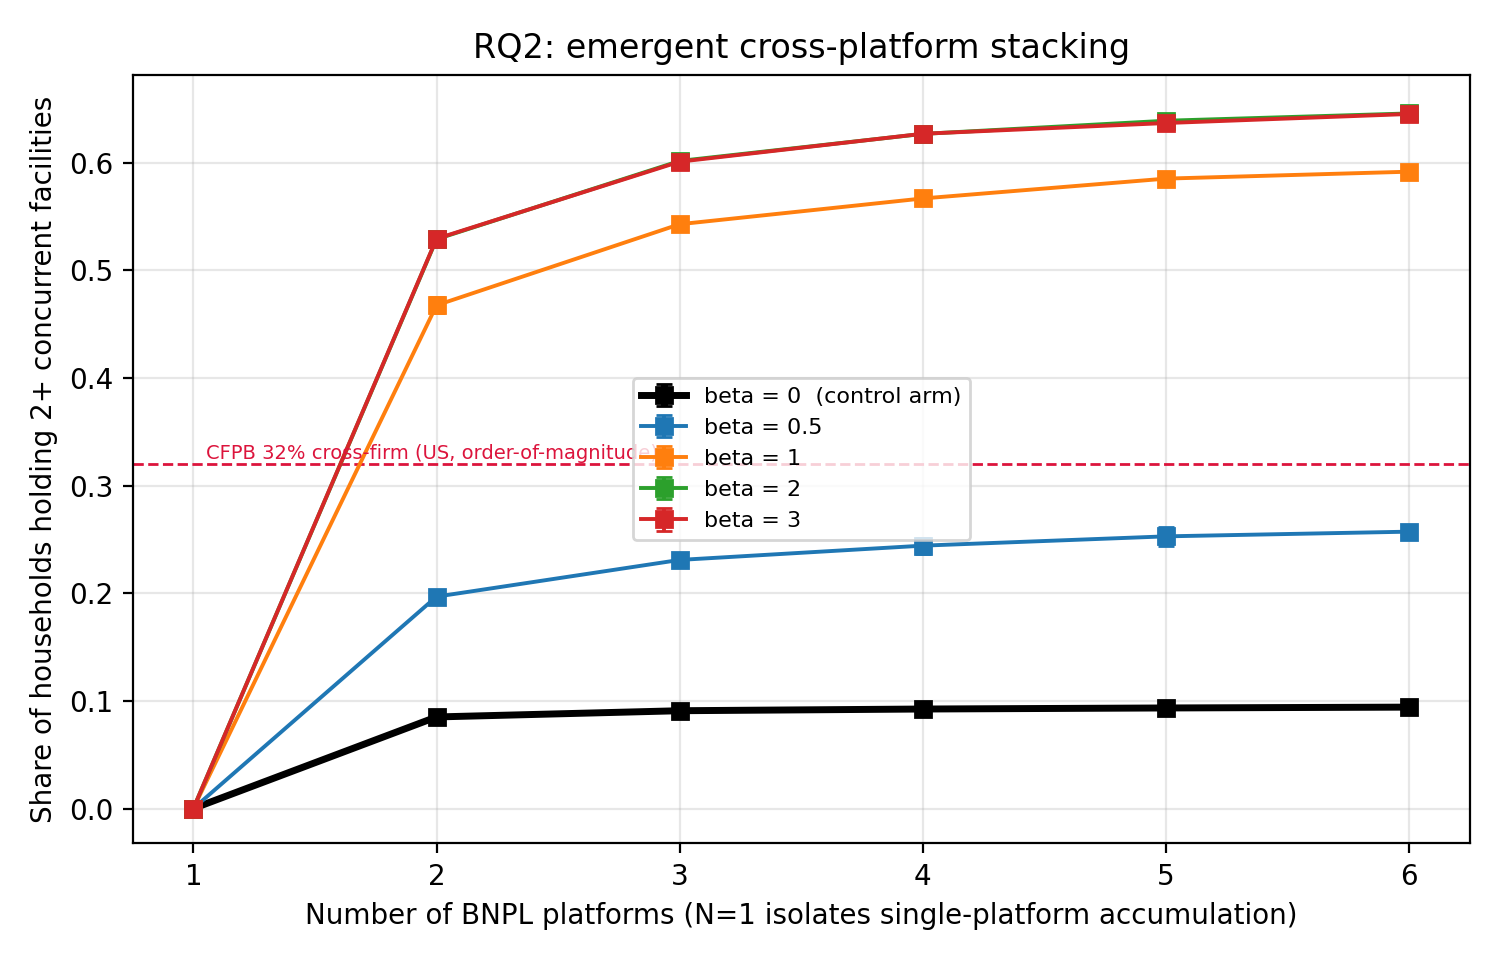
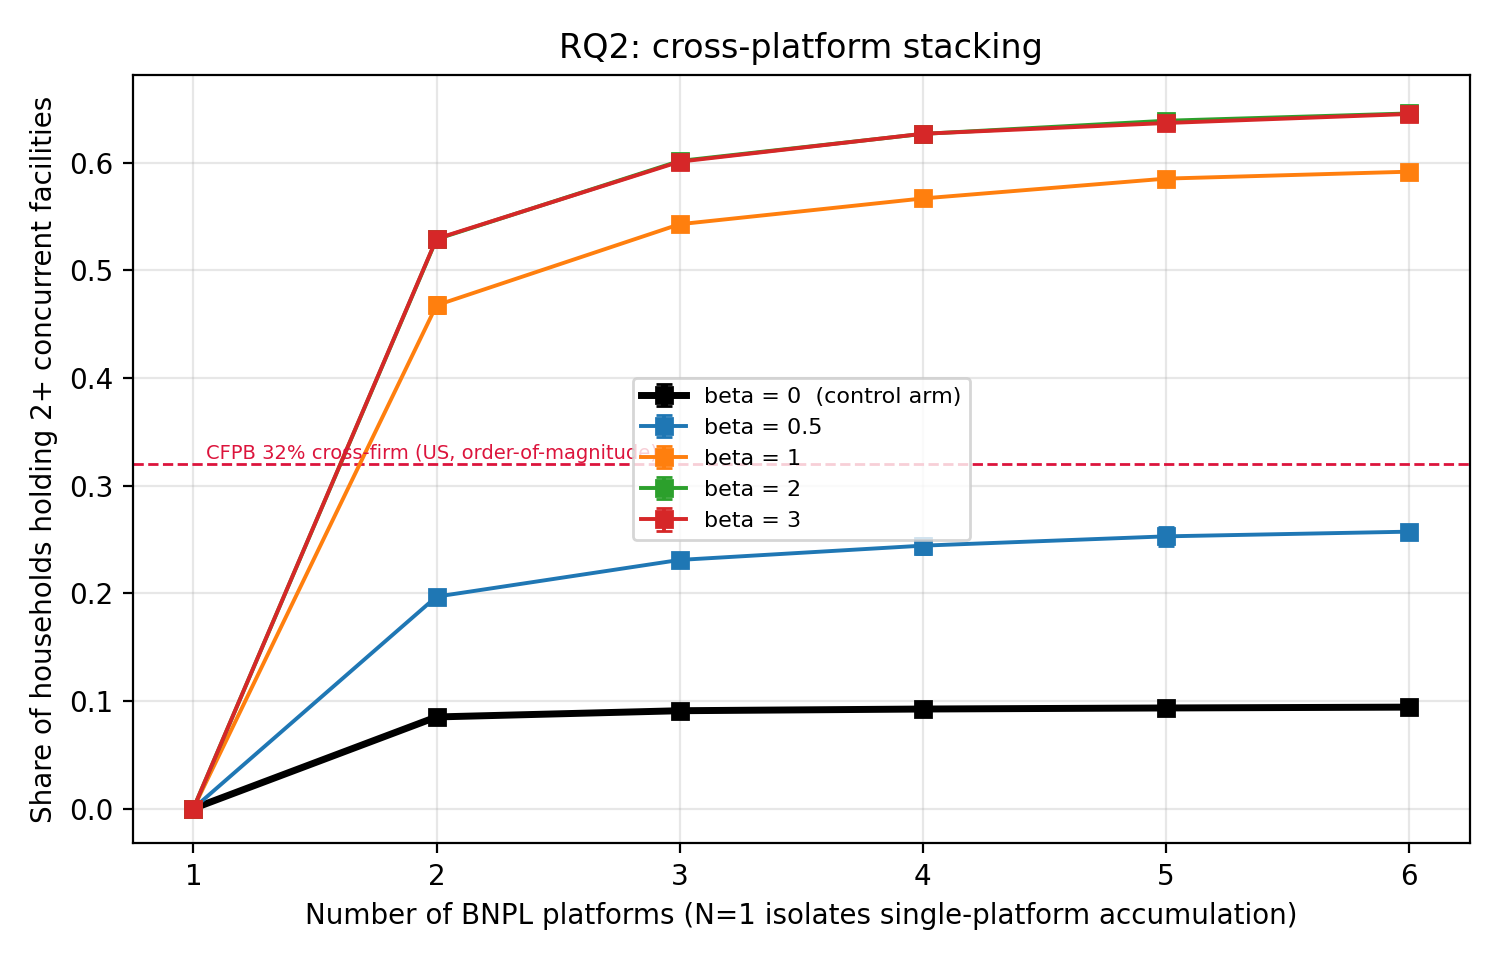
Reword RQ2 and bring its restatements into line
RQ2 now asks how often households owe several platforms at once, and how enabling
BNPL, platform count, access and peer adoption affect default. The opening of
Section 4, the design paragraph of Section 3, the answer in Section 4.6 and the first
row of the gap table follow it. The answer states the stacking shares and the effect
of enabling BNPL. A figure title and a docstring in the simulation no longer call
stacking emergent; the shares follow from the routing rule.

Changed region(s): [[0.3067, 0.0312, 0.7667, 0.0625]]

diff --git a/thesis/chapters/04_results.tex b/thesis/chapters/04_results.tex
@@ -1,8 +1,9 @@
 \section{Results}
 \label{sec:results}
 
-This section answers RQ2: whether cross-platform stacking emerges when platforms cannot
-observe one another, and how platform count, access and peer adoption affect default. RQ3
+This section answers RQ2: how often households owe several platforms at once when
+platforms cannot observe one another, and how enabling \ac{BNPL}, platform count, access and
+peer adoption affect default. RQ3
 follows in Section~\ref{sec:scenarios}. Every arm has twenty replications at the income-shock
 probability and payment friction fitted in Section~\ref{sec:calibration}; no \ac{BNPL}-side
 parameter is re-tuned. Differences in the text carry one standard error, paired by seed where
@@ -261,8 +262,10 @@ households borrow beyond the shortfall with the shortfall cap removed.
 \label{sec:results-answer}
 
 Households come to owe several platforms at once when platforms cannot observe one another,
-and the share that does so rises with platform count and with peer influence. The routing
-rule produces these shares, so they say nothing about how households choose providers.
-Default does not respond detectably to platform count. It rises with peer influence and,
-where peer influence is present, with access, and these are the arms in which households
-borrow most.
+and the share that does so rises with platform count and with peer influence. With four
+platforms, 52.0\% of final-tick holders owe two or more at $\beta=0$ and 85.1\% at $\beta=1$.
+The routing rule produces these shares, so they say nothing about how households choose
+providers. Enabling \ac{BNPL} raises default by $0.12 \pm 0.05$ points without peer influence
+and by $0.61 \pm 0.11$ at $\beta=1$. Default does not respond detectably to platform count. It
+rises with peer influence and, where peer influence is present, with access, and these are
+the arms in which households borrow most.

diff --git a/thesis/chapters/01_introduction.tex b/thesis/chapters/01_introduction.tex
@@ -80,9 +80,9 @@ Three subsidiary questions, referred to as RQ1 to RQ3, guide the analysis:
     \item How well does a synthetic household population built from South African survey
     microdata reproduce the selected baseline arrears bands, and how does it perform
     against benchmarks not used in fitting or construction?
-    \item When \ac{BNPL} platforms cannot observe one another's exposures, does
-    cross-platform stacking emerge, and how do platform count, access and peer adoption
-    affect population default?
+    \item When \ac{BNPL} platforms cannot observe one another's exposures, how often do
+    households owe several platforms at once, and how do enabling \ac{BNPL}, platform
+    count, access and peer adoption affect population default?
     \item How do bureau visibility and mandatory affordability screening change simulated
     borrowing and distress, both with and without peer influence on adoption?
 \end{enumerate}
@@ -219,8 +219,9 @@ Empirical \ac{BNPL} \newline
 \cite{dehaan2024bnpl,cfpb2025bnpl,dimaggio2022bnpl,hayashi2025constraints,wang2026buynow}
 & Evidence of increased spending, financial vulnerability and simultaneous borrowing
 among United States users.
-& How do additional obligations affect distress in a survey-derived South African
-population, under the model's assumptions? \\
+& How often do households owe several platforms at once, and how do additional
+obligations affect distress in a survey-derived South African population, under the
+model's assumptions? \\
 \addlinespace
 Behavioural \newline
 \cite{meier2010present,Keys2019,Kuchler2021,ackert2025bnpl,granovetter1978threshold}

diff --git a/thesis/chapters/03_calibration.tex b/thesis/chapters/03_calibration.tex
@@ -328,8 +328,8 @@ Setting $\beta=0$ isolates the peer channel; a realistic adoption rate
 remains unidentified. The banking ceiling, the \ac{CFPB} stacking shares and
 TransUnion's finding that 57\% of surveyed consumers hold a \ac{BNPL} product
 \cite{transunion_cir_sa_2026}, against 70.0\% of households ever holding a
-balance at $\beta=0$, offer only indirect comparisons. To address RQ2, we vary platforms from one to six and
-access within the banked population, alongside peer influence. For RQ3, each
+balance at $\beta=0$, offer only indirect comparisons. To address RQ2, we enable \ac{BNPL} in the fitted baseline and vary platforms from one to
+six and access within the banked population, alongside peer influence. For RQ3, each
 regulatory switch, and the two together, are compared with the benchmark with
 and without peer influence (Section~\ref{sec:scenarios}).
 

diff --git a/simulation/bnpl.py b/simulation/bnpl.py
@@ -6,7 +6,9 @@ D9 is the mechanism, not an oversight.
 
 D12: platforms cannot see one another. This FOLLOWS FROM D10 rather than being a fresh
 assumption: with BNPL outside the NCA there is no shared reporting infrastructure through
-which one platform could observe another's exposure. Stacking depth is therefore emergent.
+which one platform could observe another's exposure. Stacking depth follows from the
+routing rule in `HouseholdAgent._bnpl_draw`, which sends each request to the platforms in
+a random order.
 
 D13: Pay in 4 on the Payflex schedule — 25% at checkout then 25% at each of the next
 three ticks, which lands exactly on tick boundaries. Interest zero. Late fee R95/week

diff --git a/simulation/analysis.py b/simulation/analysis.py
@@ -293,7 +293,7 @@ def rq1_stacking_figure() -> None:
     ax.text(1.05, 0.325, "CFPB 32% cross-firm (US, order-of-magnitude)", fontsize=7, c="crimson")
     ax.set_xlabel("Number of BNPL platforms (N=1 isolates single-platform accumulation)")
     ax.set_ylabel("Share of households holding 2+ concurrent facilities")
-    ax.set_title("RQ2: emergent cross-platform stacking")
+    ax.set_title("RQ2: cross-platform stacking")
     ax.legend(fontsize=8)
     ax.grid(alpha=0.3)
     fig.tight_layout()
